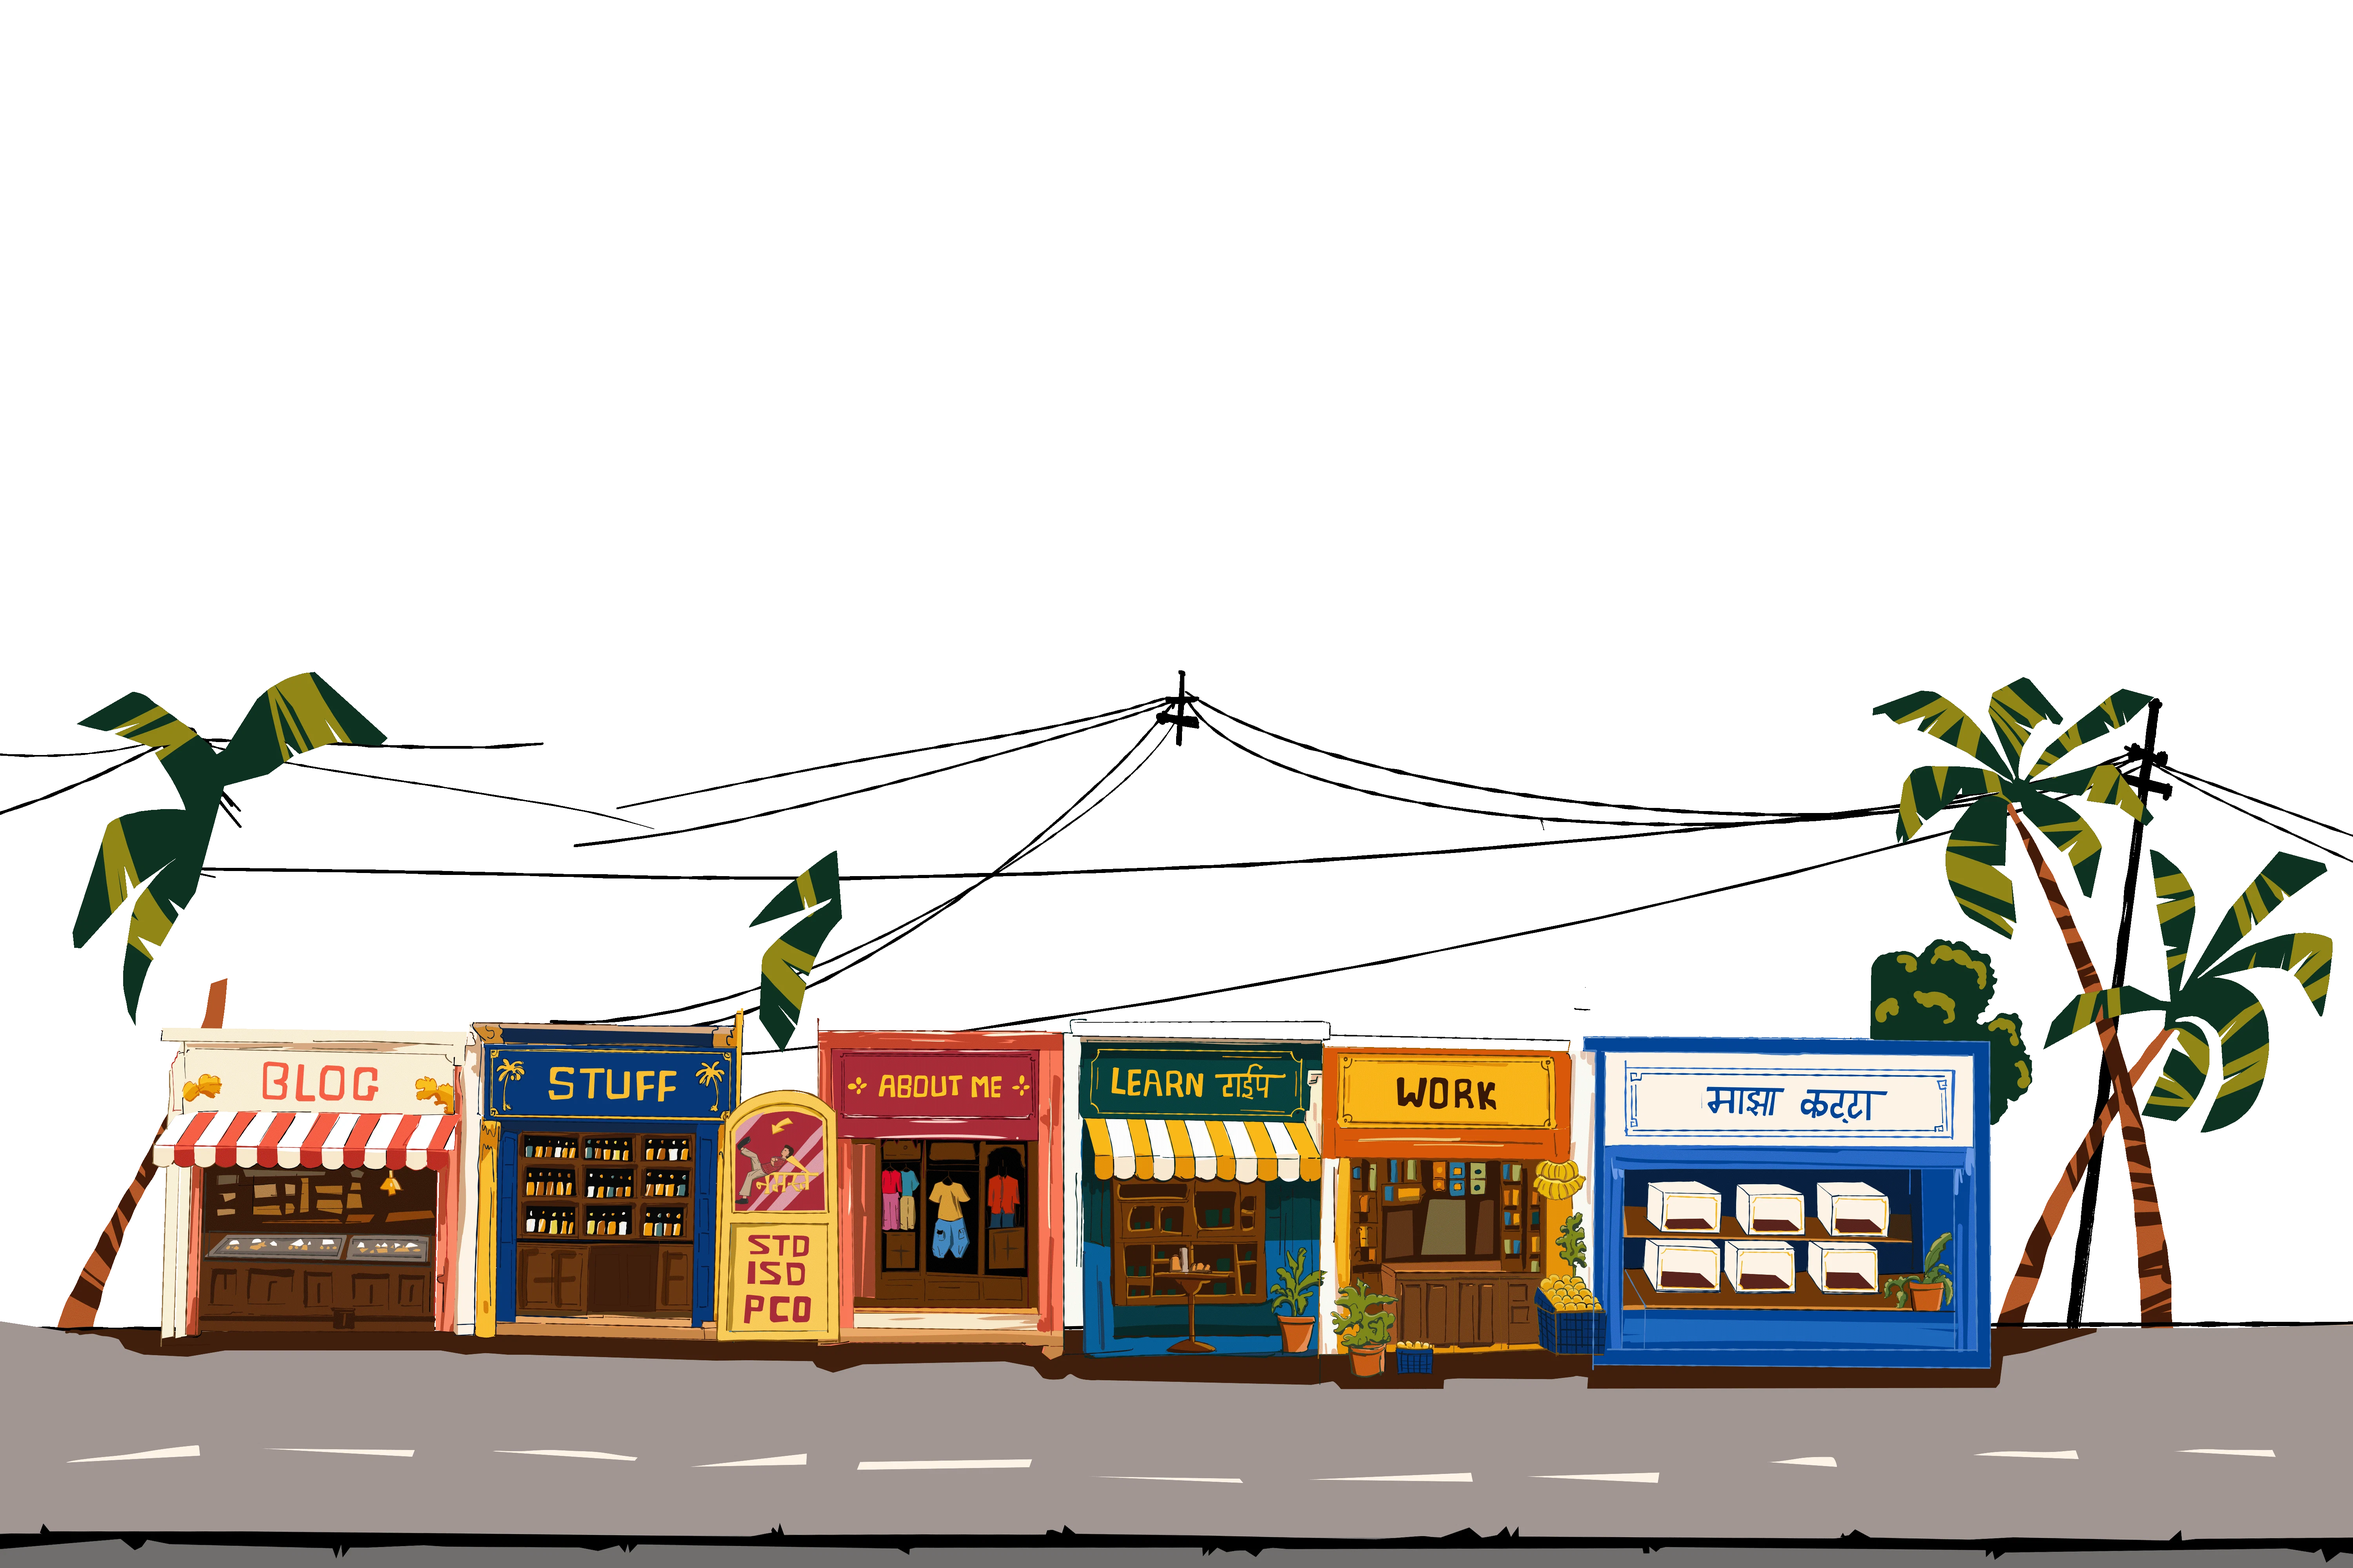
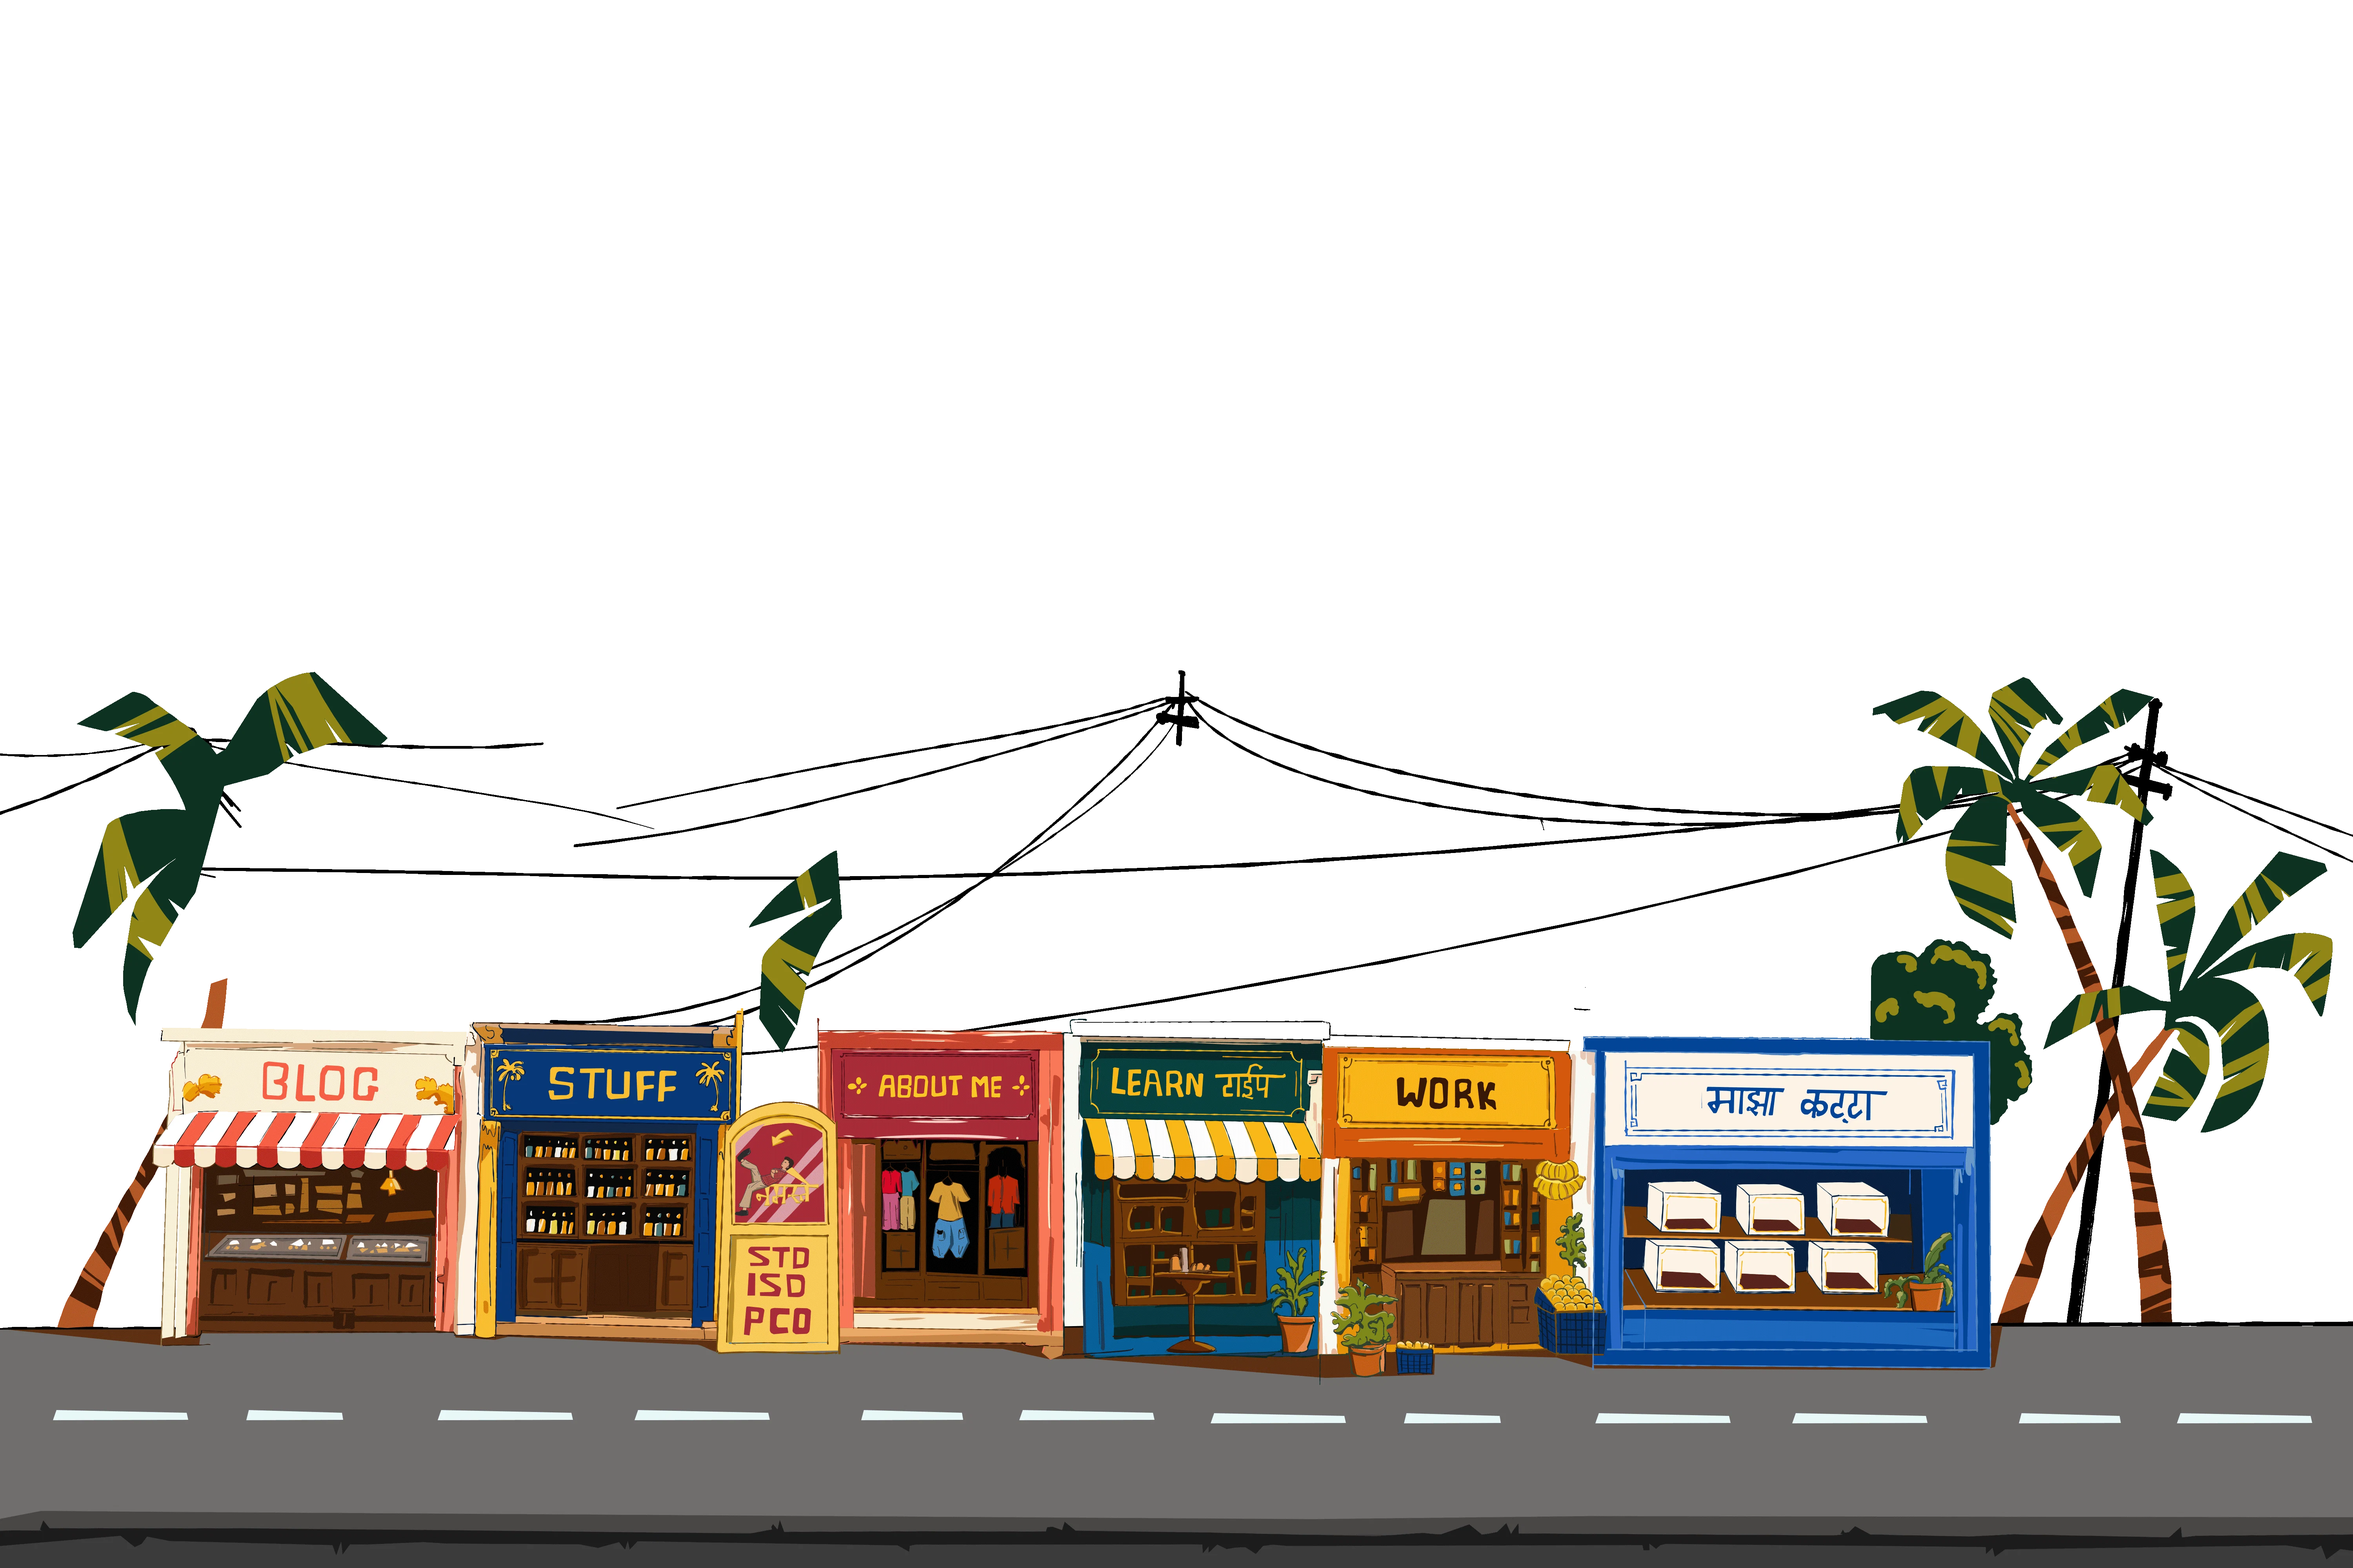
updated the background

Changed region(s): [[0.0, 0.6875, 1.0, 1.0]]

diff --git a/src/js/main.js b/src/js/main.js
@@ -24,12 +24,12 @@ const heroSettings = {
 
 const CAMERA_SHOTS = [
 	{ target: 'overview', zoom: 1, xOffset: 0, yOffset: 0 },     // 1. Full overview
-	{ target: 1, zoom: 3, xOffset: -40, yOffset: 10 },        // 2. Building 1
-	{ target: 2, zoom: 2.8, xOffset: 10, yOffset: 10 },         // 3. Building 2
-	{ target: 3, zoom: 2.8, xOffset: -10, yOffset: 110 },     // 4. Building 3 balcony
-	{ target: 3, zoom: 2.8, xOffset: -10, yOffset: 10 },       // 5. Building 3 storefront
-	{ target: 4, zoom: 2.8, xOffset: 10, yOffset: 10 },          // 6. Building 4
-	{ target: 5, zoom: 3, xOffset: 20, yOffset: 10 },          // 7. Building 5
+	{ target: 1, zoom: 2.2, xOffset: -40, yOffset: -140 },        // 2. Building 1
+	{ target: 2, zoom: 2.4, xOffset: -20, yOffset: -140 },         // 3. Building 2
+	{ target: 3, zoom: 2.2, xOffset: -10, yOffset: 100 },     // 4. Building 3 balcony
+	{ target: 3, zoom: 2.2, xOffset: -20, yOffset: 100 },       // 5. Building 3 storefront
+	{ target: 4, zoom: 2.2, xOffset: -10, yOffset: -140 },          // 6. Building 4
+	{ target: 5, zoom: 2, xOffset: 60, yOffset: -140 },          // 7. Building 5
 	{ target: 6, zoom: 3, xOffset: 10, yOffset: 10 },          // 8. Building 6
 	{ target: 'overview', zoom: 1, xOffset: 0, yOffset: 0 },     // 9. Full overview
 ];
